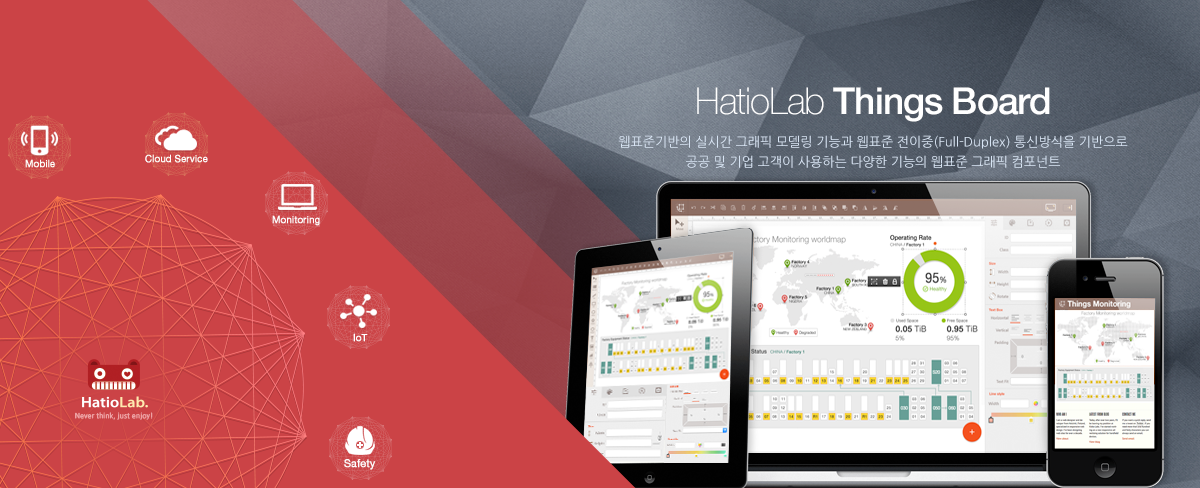
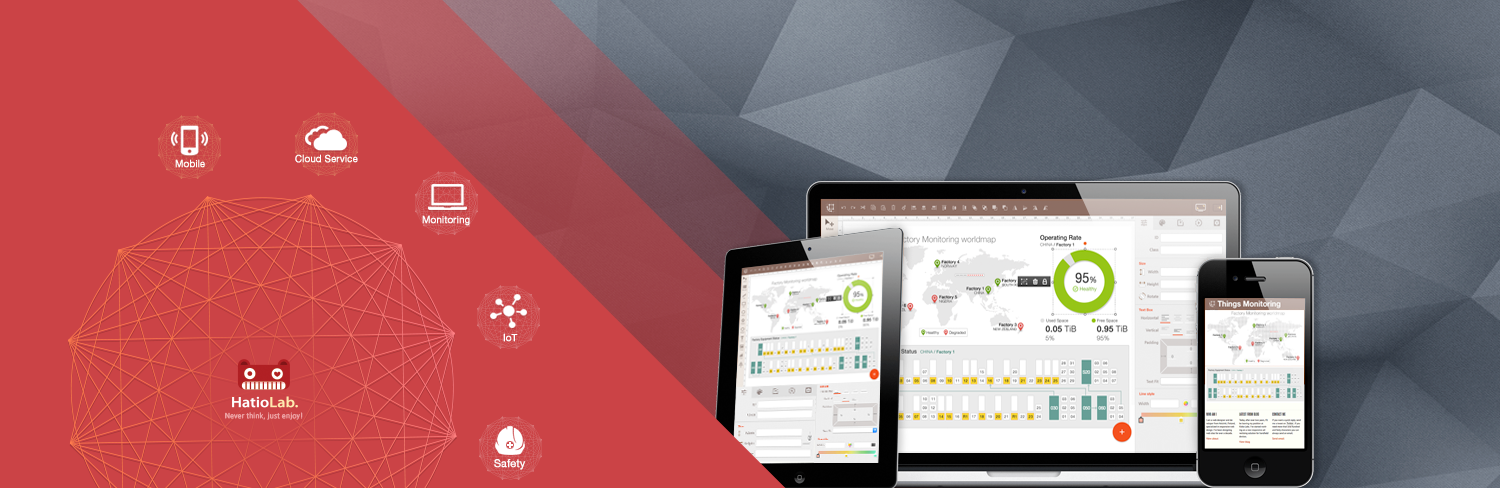
언어추가,내용 수정

diff --git a/index.html b/index.html
@@ -35,7 +35,7 @@
 	<link rel="stylesheet" href="assets/css/custom.css">
 </head>
 
-<body id="body" data-spy="scroll" data-target=".one-page-header" class="demo-lightbox-gallery">
+<body id="body" data-spy="scroll" data-target=".one-page-header" class="demo-lightbox-gallery korean">
 
 	<!--=== Header ===-->
 	<nav class="one-page-header one-page-header-style-2 navbar navbar-default navbar-fixed-top" role="navigation">
@@ -69,6 +69,11 @@
 						<li class="page-scroll">
 							<a href="#contact">Contact Us</a>
 						</li>
+						<li class="language">
+							<a href="index.html"><strong>한국어</strong></a>
+							<a href="index.html" class="bothside-dot">中文</a>
+							<a href="index.html">ENGLISH</a>
+						</li>
 					</ul>
 				</div>
 			</div>
@@ -78,7 +83,13 @@
 	</nav>
 	<!--=== End Header ===-->
 	<section id="intro" class="intro-section">
-		<img src="assets/images/bg1.png" data-bgposition="center center" data-bgrepeat="no-repeat">
+		<div class="container">
+			<h1>HatioLab <strong>Things Board</strong></h1>
+			<p>
+				웹표준기반의 실시간 그래픽 모델링 기능과 웹표준 전이중(Full-Duplex) 통신방식을 기반으로<br>
+				공공 및 기업 고객이 사용하는 다양한 기능의 <strong>웹표준 그래픽 컴포넌트</strong>
+			</p>
+		</div>
 	</section>
 
 	<!--  About Section -->
@@ -117,7 +128,7 @@
 				<h2>Our <strong>Services</strong></h2>
 				<p>
 					쉽고 빠른 웹표준 그래픽 통합모델러로 디자인하고 어디서든, 무엇이든, 어떤 디바이스든 고객이 원하는 바로 그것의 실시간 모니터링이 가능해집니다.<br>
-					공공시설 관리 및 안전관리, 공장의 시설/생산현황/재고현황, 물류/유통/운송 현황 등의 폭<strong>넓은 수요를 만족시킬 수 있는 서비스</strong>입니다.<br>
+					공공시설 관리 및 안전관리, 공장의 시설/생산현황/재고현황, 물류/유통/운송 현황 등의 <strong>폭넓은 수요를 만족시킬 수 있는 서비스</strong>입니다.<br>
 				</p>
 			</div>
 

diff --git a/assets/css/custom.css b/assets/css/custom.css
@@ -1,3 +1,12 @@
+::selection{background:#ec5252;}
+.navbar-nav .language{position:absolute;right:0;}
+.navbar-nav .language a{
+	float:left;
+	margin-top:15px;padding:0px 12px !important;
+	font-size:12px !important;
+	font-weight:100;
+	letter-spacing:1px;
+}
 .one-page-header .navbar-brand{font-weight:100;}
 .one-page-header .navbar-brand span,.color-green{
 	color:#ec5252 !important;
@@ -45,3 +54,22 @@
 	top:-50px;
 }
 #intro{text-align:center}
+.bothside-dot{
+	border:1px dotted rgba(255,255,255,.1);
+	border-width:0 1px;
+}
+.intro-section{
+	background:url(../images/bg1.png) 50% 100% no-repeat #333;
+	min-height:485px;
+	margin-top:-5px;
+}
+.intro-section .container{
+	margin-right:5%;padding:80px 0 0 0;
+	width:600px;
+}
+.intro-section .container h1{
+	font-size:30px !important;
+	font-weight:100;
+	color:#fff !important;
+}
+.intro-section .container p{color:rgba(255,255,255,.6);font-weight:100;}
